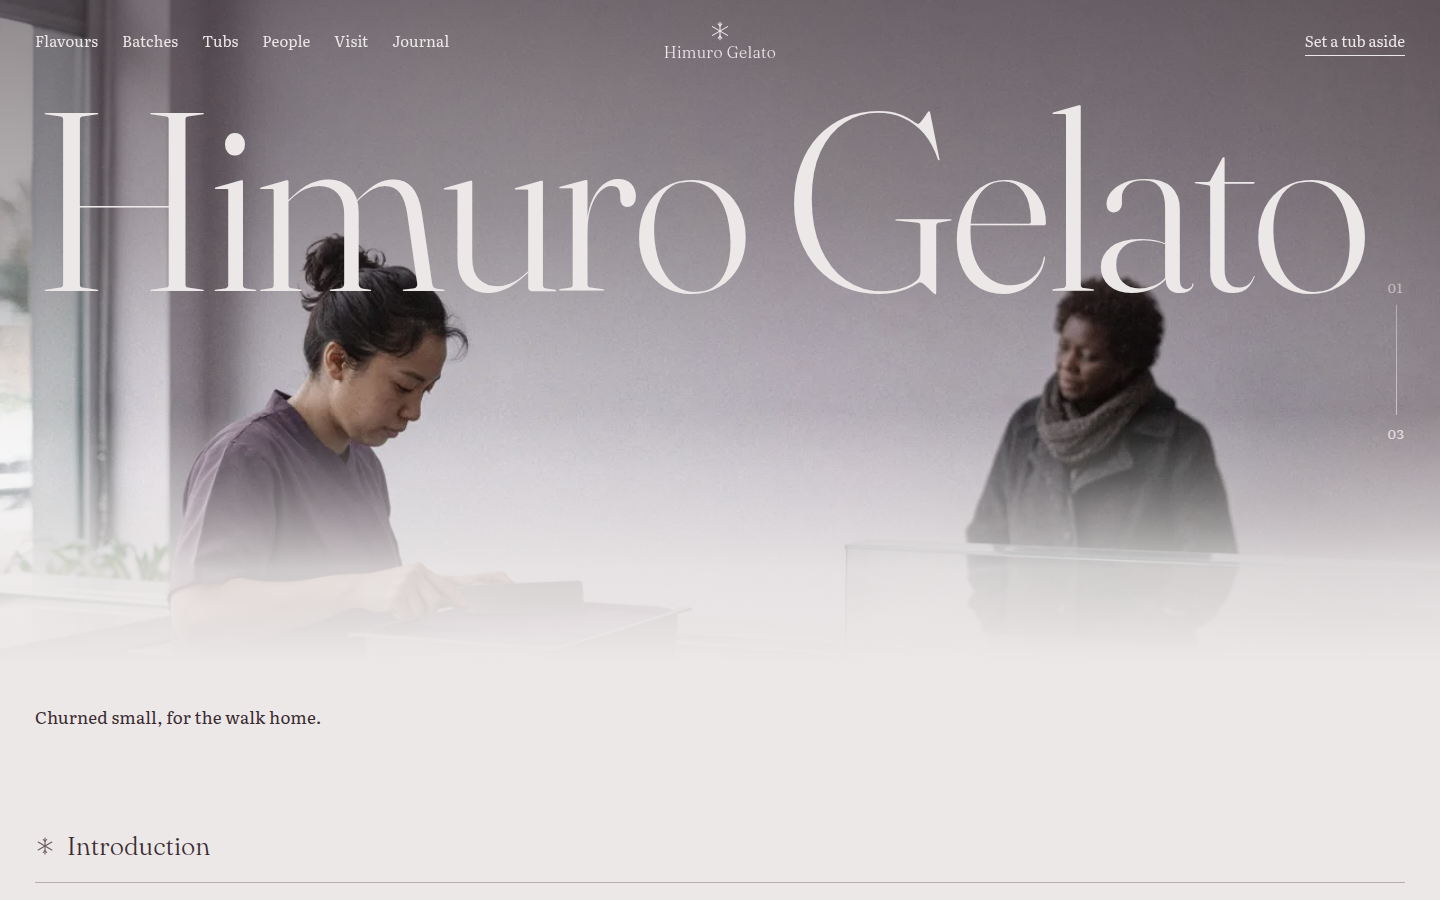
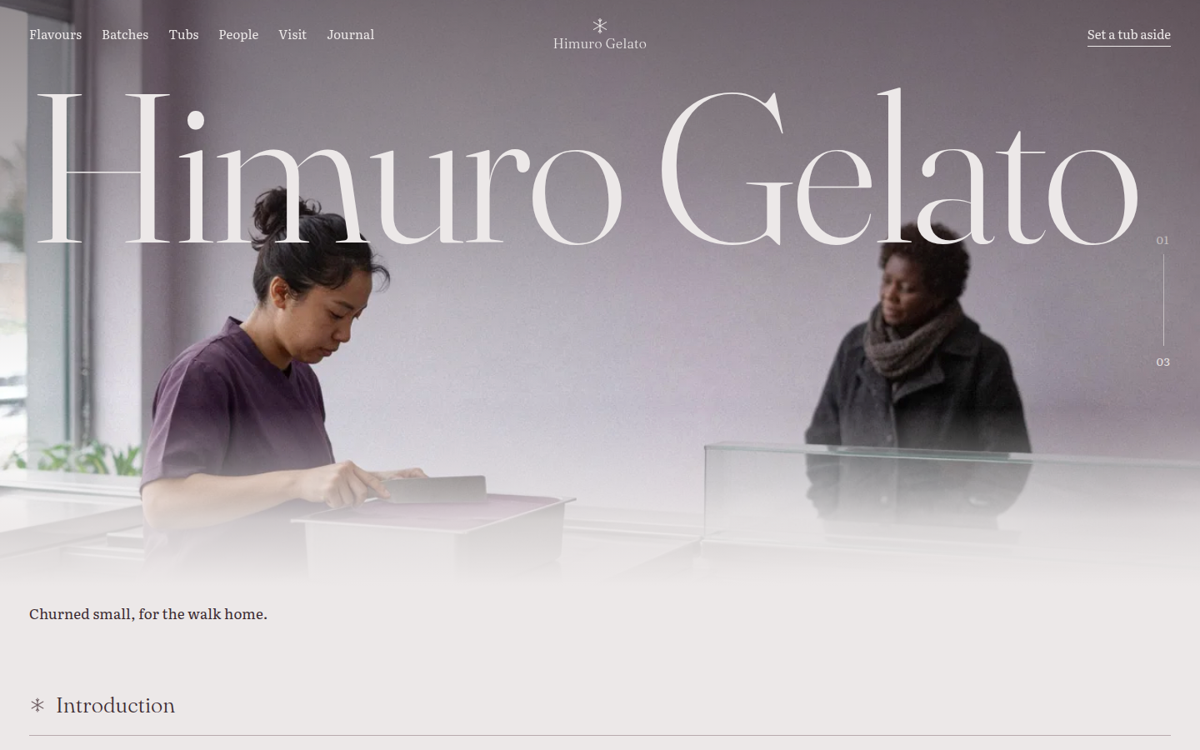
himuro-gelato: stage-2 home fixes (hero melt, mobile hero, viewer crop, footer link, screenshot)

diff --git a/themes/himuro-gelato/style.css b/themes/himuro-gelato/style.css
@@ -93,15 +93,15 @@ a { text-underline-offset: .2em; }
 .hg-kv__stage { position: relative; min-height: max(640px, calc(100svh - 110px)); background: var(--hg-paper); isolation: isolate; --sp-par: 8%; }
 .hg-kv__layer { position: absolute; inset: 0; margin: 0; }
 .hg-kv__img { position: absolute; inset: 0; margin: 0; }
-.hg-kv__img img { position: absolute; inset: 0; width: 100% !important; height: 100% !important; object-fit: cover; object-position: 50% 35%; filter: saturate(.82); }
+.hg-kv__img img { position: absolute; inset: 0; width: 100% !important; height: 100% !important; object-fit: cover; object-position: 50% 50%; filter: saturate(1.12) contrast(1.03); }
 .hg-kv__img--2, .hg-kv__img--3 { display: none; }
 .hg-kv__stage::before { content: ""; position: absolute; inset: 0; z-index: 1; pointer-events: none; background: linear-gradient(180deg, rgba(43, 31, 36, .52) 0, rgba(43, 31, 36, .34) 26%, rgba(43, 31, 36, .1) 46%, rgba(43, 31, 36, 0) 60%); }
-.hg-kv__stage::after { content: ""; position: absolute; inset: 0; z-index: 2; pointer-events: none; background: linear-gradient(180deg, rgba(236, 232, 232, 0) 0%, rgba(236, 232, 232, 0) 52%, rgba(236, 232, 232, .85) 72%, #ECE8E8 84%); }
+.hg-kv__stage::after { content: ""; position: absolute; inset: 0; z-index: 2; pointer-events: none; background: linear-gradient(180deg, rgba(236, 232, 232, 0) 0%, rgba(236, 232, 232, 0) 62%, rgba(236, 232, 232, .85) 79%, #ECE8E8 89%); }
 .hg-kv__in { max-width: 1440px; margin-inline: auto; padding: 5.2rem var(--hg-gutter) 0; box-sizing: border-box; }
 .hg-kv__word { position: relative; z-index: 3; margin: 0; color: var(--hg-paper); font-size: clamp(4.25rem, 17.6vw, 24rem); font-weight: 300; letter-spacing: -.02em; line-height: .92; white-space: nowrap; }
 .hg-w { display: inline-block; white-space: nowrap; }
 .hg-w > span { display: inline-block; }
-.hg-kv__tag { position: absolute; z-index: 3; left: var(--hg-gutter); bottom: 3.6rem; margin: 0; color: var(--hg-ink); font-size: 1.0625rem; letter-spacing: .01em; }
+.hg-kv__tag { position: absolute; z-index: 3; left: var(--hg-gutter); bottom: 2.4rem; margin: 0; color: var(--hg-ink); font-size: 1.0625rem; letter-spacing: .01em; }
 .hg-kv__count { position: absolute; right: var(--hg-gutter); top: 17.5rem; margin: 0; display: flex; flex-direction: column; align-items: center; gap: .7rem; color: var(--hg-paper); font-size: .875rem; letter-spacing: .06em; line-height: 1; }
 .hg-kv__steps { display: grid; }
 .hg-kv__steps > span { grid-area: 1 / 1; opacity: 0; }
@@ -114,7 +114,9 @@ a { text-underline-offset: .2em; }
 	.hg-w { display: block; }
 	.hg-kv__word { white-space: normal; line-height: .95; }
 	.hg-kv__count { display: none; }
-	.hg-kv__img img { object-position: 27% 30%; }
+	.hg-kv__img img { object-position: 62% 35%; }
+	.hg-kv__img--1, .hg-kv__img--2 { display: none !important; }
+	.hg-kv__img--3 { display: block !important; clip-path: none !important; animation: none !important; }
 }
 /* load-only motion (off under sp-no-motion, reduced motion, the editor and no-JS) */
 @keyframes hg-letter { from { opacity: 0; } to { opacity: 1; } }
@@ -136,7 +138,7 @@ html.sp-js:not(.sp-no-motion) .hg-kv__steps > span:nth-child(3) { animation-dela
 .hg-intro__cols { display: grid; grid-template-columns: var(--hg-col) minmax(0, 640px) 1fr; align-items: start; }
 .hg-intro__text { grid-column: 2; }
 .hg-intro__text > p + p { margin-top: 1.6rem; }
-.hg-intro__photo { grid-column: 3; justify-self: end; width: min(300px, 100%); margin-top: 160px; }
+.hg-intro__photo { grid-column: 3; justify-self: end; width: min(300px, 100%); margin-top: 160px; margin-bottom: -160px; }
 .hg-intro__photo img { width: 100%; aspect-ratio: .74 / 1; object-fit: cover; }
 @media (max-width: 1023px) {
 	.hg-statement { padding-left: 0; }
@@ -155,7 +157,7 @@ html.sp-js:not(.sp-no-motion) .hg-kv__steps > span:nth-child(3) { animation-dela
 .hg-thumbs { display: grid; gap: 16px; }
 .hg-thumb img, .hg-main img { width: 100%; object-fit: cover; }
 .hg-thumb img { aspect-ratio: 232 / 314; }
-.hg-main img { aspect-ratio: 495 / 767; }
+.hg-main img { aspect-ratio: 495 / 767; object-position: 50% 85%; }
 .hg-viewer__text { align-self: start; padding-left: .6rem; }
 .hg-viewer__name { margin: 0 0 .5rem !important; font-size: var(--wp--preset--font-size--large); }
 .hg-viewer__sub { color: var(--hg-dust); margin: 0 0 1rem !important; line-height: 1.5; }
@@ -170,7 +172,7 @@ html.sp-js:not(.sp-no-motion) .hg-kv__steps > span:nth-child(3) { animation-dela
 .hg-dots { color: var(--hg-plum); letter-spacing: .12em; }
 .hg-viewer__text .wp-block-buttons { display: block; }
 .hg-viewer__text .hg-btn { width: 100%; }
-.hg-counter { display: flex; align-items: center; gap: 1rem; margin: 2rem 0 0 !important; color: var(--hg-dust); font-size: .875rem; letter-spacing: .04em; }
+.hg-counter { display: flex; align-items: center; justify-content: flex-end; gap: 1rem; margin: 2rem 0 0 !important; color: var(--hg-dust); font-size: .875rem; letter-spacing: .04em; }
 .hg-counter__bar { position: relative; width: 54px; height: 1px; background: var(--hg-mist); }
 .hg-counter__bar i { position: absolute; left: 0; top: 0; height: 1px; width: 16.66%; background: var(--hg-plum); }
 @media (min-width: 1024px) { .hg-viewer__text { position: sticky; top: 96px; } }

diff --git a/themes/himuro-gelato/patterns/foot-main.php b/themes/himuro-gelato/patterns/foot-main.php
@@ -60,7 +60,9 @@
 <p class="hg-foot__lab"><?php echo esc_html( himuro_gelato_t( 'ft_nl' ) ); ?></p>
 <!-- /wp:paragraph -->
 
-<?php echo shippress_form_slot( array( 'kind' => 'newsletter', 'email' => 'hello@himurogelato.example', 'label' => himuro_gelato_t( 'forms_email' ), 'submit' => himuro_gelato_t( 'forms_subscribe' ), 'notice' => himuro_gelato_t( 'forms_mail_notice' ), 'subject' => himuro_gelato_t( 'forms_mail_subject' ) ) ); // phpcs:ignore WordPress.Security.EscapeOutput.OutputNotEscaped ?></div>
+<!-- wp:paragraph {"className":"hg-foot__links"} -->
+<p class="hg-foot__links"><a href="/newsletter/"><?php echo esc_html( himuro_gelato_t( 'ft_nl_link' ) ); ?></a></p>
+<!-- /wp:paragraph --></div>
 <!-- /wp:group -->
 
 <!-- wp:group {"className":"hg-foot__base","layout":{"type":"default"}} -->

diff --git a/themes/himuro-gelato/inc/i18n/en.php b/themes/himuro-gelato/inc/i18n/en.php
@@ -157,5 +157,6 @@ return array(
 	'ft_addr' => '14 Quay Lane, Harbour Quarter|Larkhaven',
 	'ft_hours' => 'Wed–Sun 12:00–21:00',
 	'ft_nl' => 'The flavour note',
+	'ft_nl_link' => 'Read the note and subscribe →',
 	'ft_legal' => '© 2019–2026 Himuro Gelato · a fictional cafe',
 );

diff --git a/themes/himuro-gelato/README.md b/themes/himuro-gelato/README.md
@@ -7,3 +7,9 @@ A block theme for a small-batch gelato cafe. A full-bleed film-grain photograph 
 - Sample pages: about, flavours, batches, tubs, people, visit, newsletter and contact are imported from `demo-content.json`; the menu links to them
 - Scroll effects: `assets/sp-scroll.css`, `assets/sp-scroll.js`
 - Forms: `inc/shippress-forms.php` (dynamic `shippress/form` block, no required plugin)
+
+## Stage 2 notes
+
+- The hero keeps the maker's hands and the tin above the paper melt; on phones the hero shows the hand-over-the-glass photograph so both people stay in frame.
+- The footer links to the newsletter page instead of repeating the subscription form from the home page.
+- Fonts: Fraunces and Literata (Latin), Noto Serif TC and Noto Serif JP (CJK headings), all listed in `theme-meta.json` with their OFL licences.
